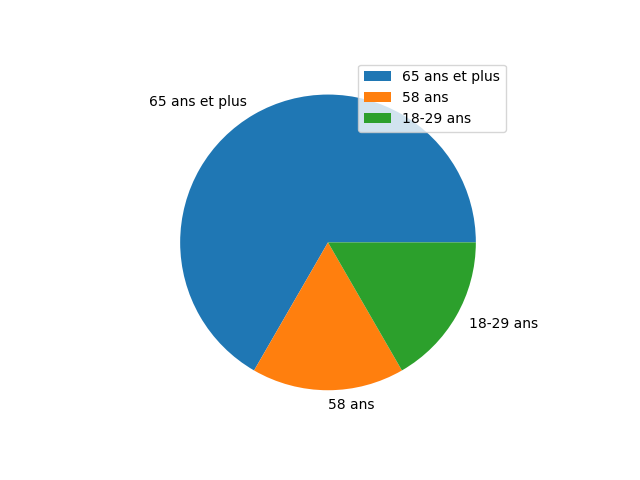
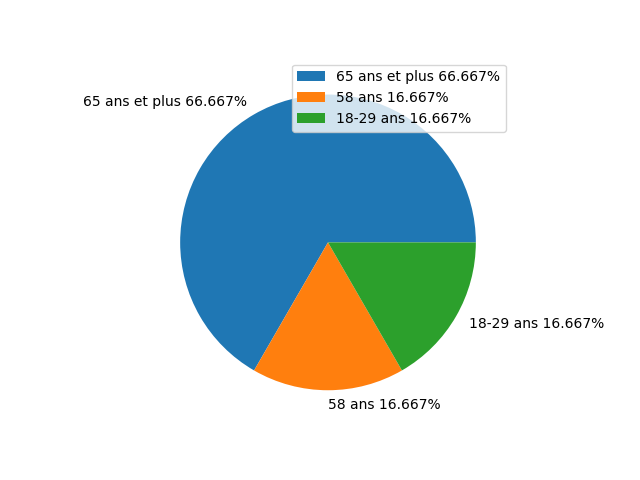
tj aussi relou mais fun :)

diff --git a/main.py b/main.py
@@ -15,6 +15,7 @@ def unique(labels):
             final_dict[i] += 1
         except Exception as e:
             final_dict[i] = 1
+    print(final_dict)
     return final_dict
 
 #print(df.columns)
@@ -34,8 +35,6 @@ for i in column:
         if not (isinstance(j, float) and np.isnan(j)):
             dict_for_classifying[i].append(j)
 
-print(dict_for_classifying)
-
 value_dict = {
     "Age": {
         "65 ans et plus": 1,
@@ -52,14 +51,12 @@ real_temp_dict = {}
 
 for j, y in dict_for_classifying.items():
     temp_dict = {}
-    for i, k in zip(y, range(len(j))):
+    for i, k in zip(y, range(len(y))):
         temp_dict.update({i: k})
 
     real_temp_dict.update({j:temp_dict})
 
-print(real_temp_dict)
-
-value_dict.update(dict_for_classifying)
+value_dict.update(real_temp_dict)
 selected_dict = {}
 
 for i in column:
@@ -78,9 +75,22 @@ for i in column:
             else:
                 selected_dict[i].append(j)
 
+labels = list(value_dict['Age'].keys())
 
-print(selected_dict)
+percent = unique(selected_dict["Age"])
+print(percent)
 
-plt.pie(x=unique(selected_dict["Age"]).values(), labels=list(value_dict['Age'].keys()))#, explode=list(value_dict['Age'].values()))
+percent2 = {}
+for i, j in percent.items():
+    percent2.update({i-min(list(percent.keys())): j})
+percent = percent2
+del percent2
+
+for i in range(len(labels)):
+    labels[i] += " " + str(round(percent[i] / sum(percent.values()) * 100, 3)) + "%"
+
+print(unique(selected_dict["Age"]).values(), selected_dict["Age"])
+
+plt.pie(x=unique(selected_dict["Age"]).values(), labels=labels)#, explode=list(value_dict['Age'].values()))
 plt.legend()
 plt.savefig("first_plt.png")
